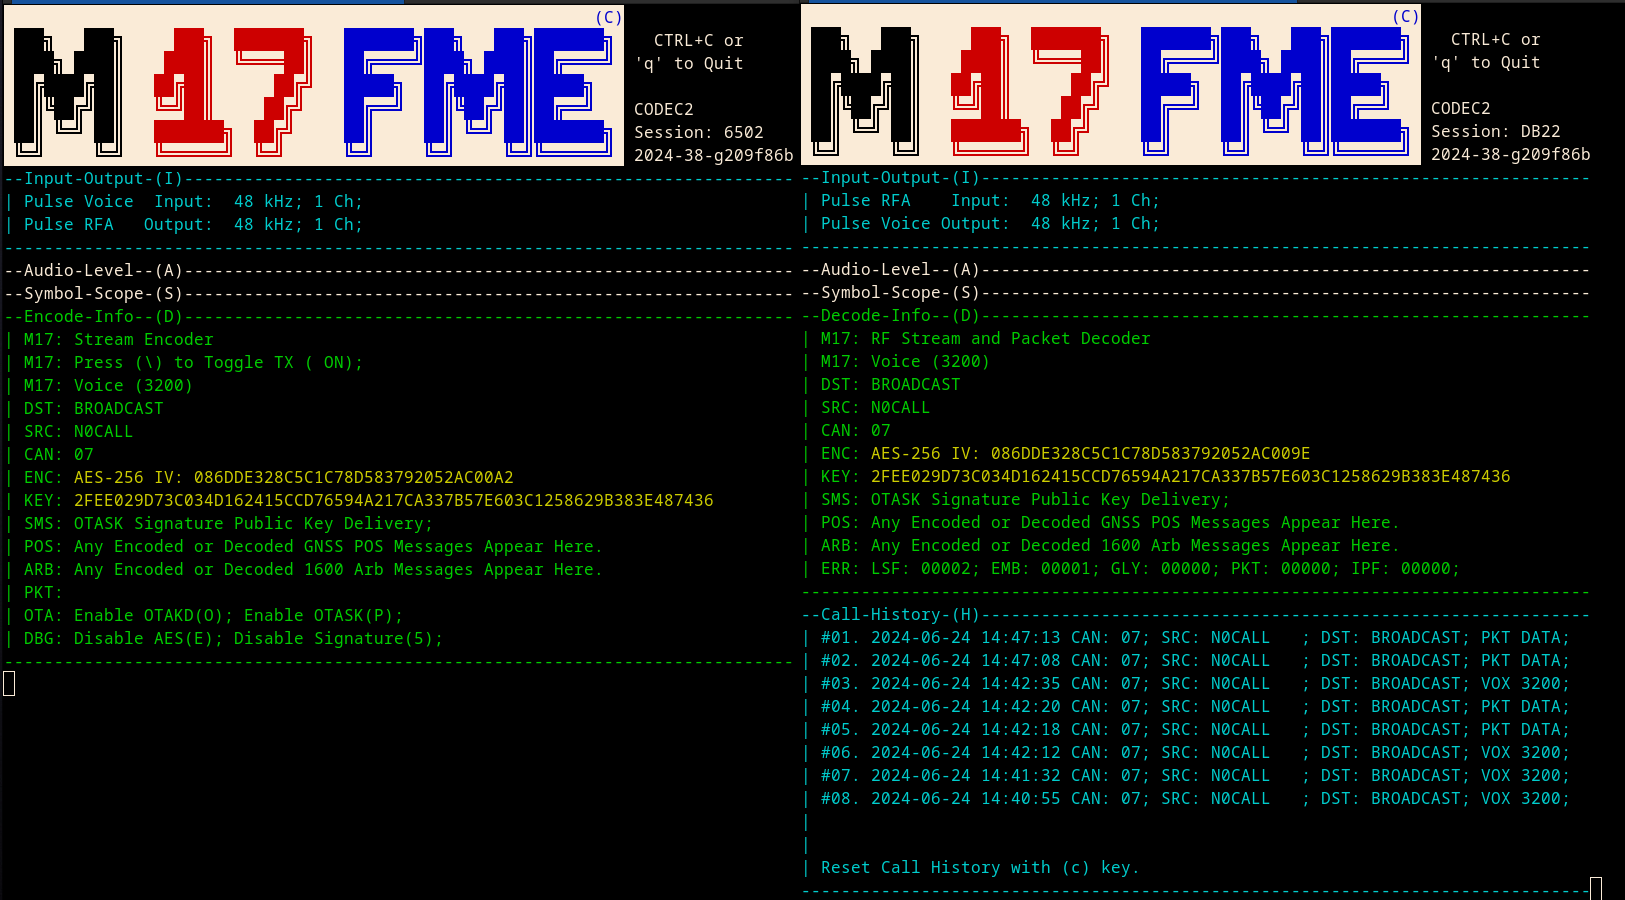
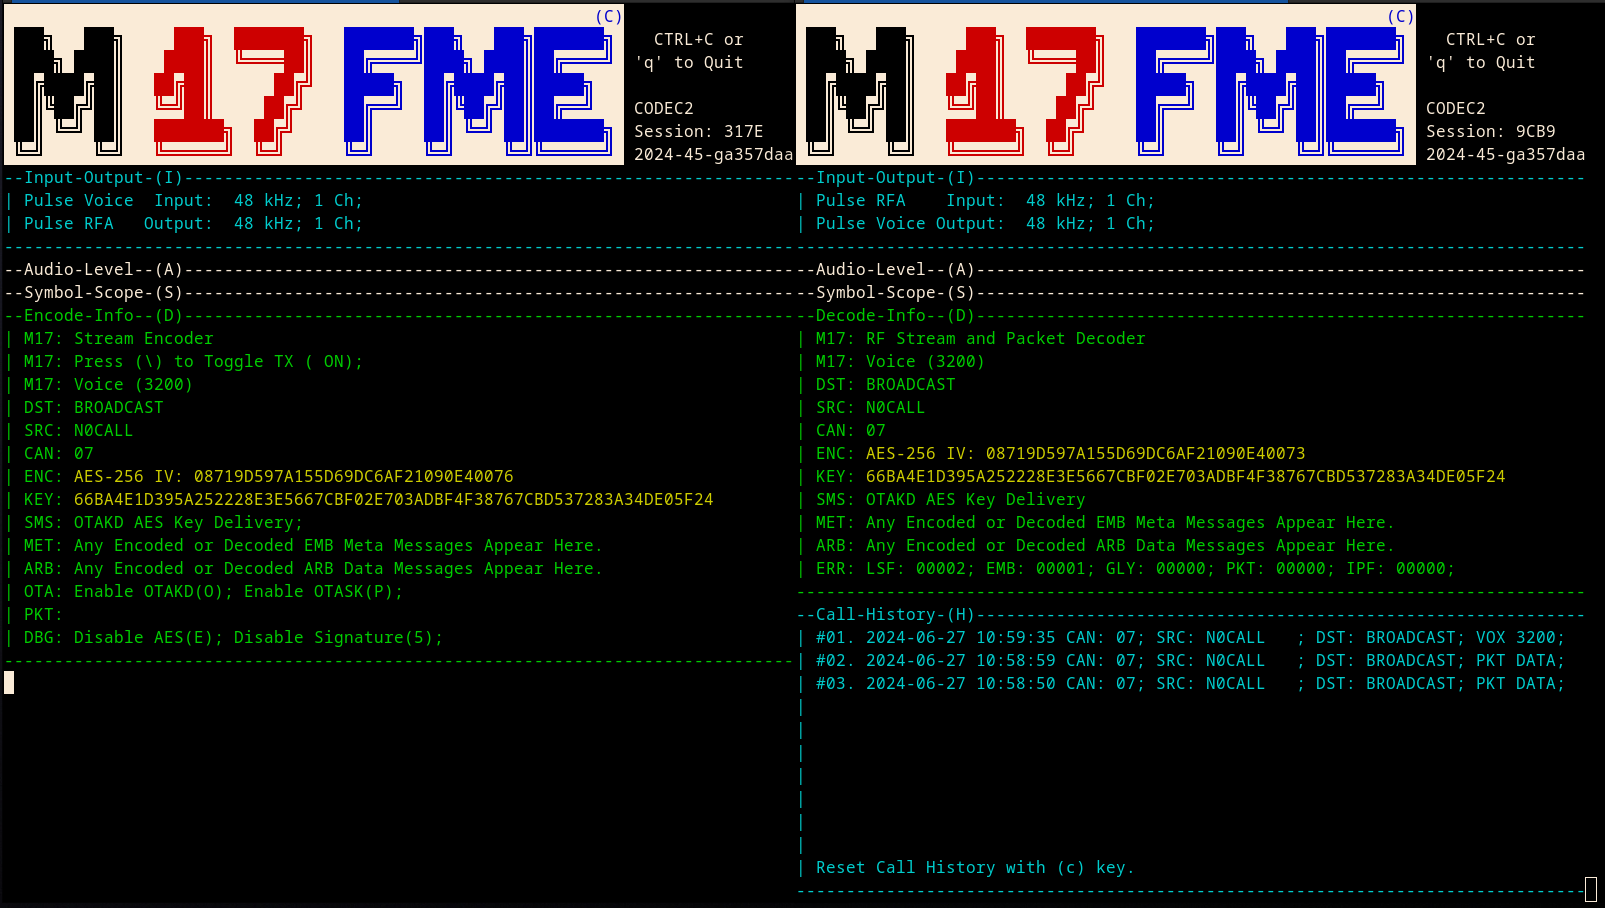
Update Screenshots;
Bugfix on Short AES PKT (<128) Decryption over IPF;

Misc Tweaks;

diff --git a/src/decoder/m17_pkt_decoder.c b/src/decoder/m17_pkt_decoder.c
@@ -285,6 +285,7 @@ void decode_pkt_contents(Super * super, uint8_t * input, int len)
 
     if (protocol == 0x80) //Meta
     { 
+      sprintf (super->m17d.dat, "%s", "");
       //show Control Byte Len and Segment Values on Meta Text
       fprintf (stderr, "%d/%d; ", (input[1] >> 4), input[1] & 0xF);
       for (i = 2; i < len; i++)
@@ -292,12 +293,11 @@ void decode_pkt_contents(Super * super, uint8_t * input, int len)
     }
     else
     {
+      sprintf (super->m17d.arb, "%s", "");
       for (i = 1; i < len; i++)
         fprintf (stderr, "%c", input[i]);
     }
 
-    //make a better string out of it instead
-    sprintf (super->m17d.arb, "%s", "");
     if (protocol == 0x80) //Meta Text with the control byte
       memcpy (super->m17d.dat, input+2, len); //skip over control byte
     else memcpy (super->m17d.arb, input+1, len);

diff --git a/src/ncurses/ncurses_input_handler.c b/src/ncurses/ncurses_input_handler.c
@@ -20,8 +20,8 @@ void entry_string_ncurses_terminal (char * label, char * output_string)
   WINDOW * entry;
   int rows   = 6;
   int colums = 70;
-  int xpos = 10;
-  int ypos = 10;
+  int xpos = 5;
+  int ypos = 5;
   
   entry = newwin(rows, colums, ypos, xpos);
   box (entry, 0, 0);
@@ -261,6 +261,7 @@ void input_ncurses_terminal (Super * super, int c)
           super->m17e.enc_et = 0;
           super->m17e.met_st = 0;
           memset  (super->m17e.meta_data, 0, sizeof(super->m17e.meta_data));
+          sprintf (super->m17d.dat, "%s", "");
         }
         else if (super->m17e.meta_data[0]) //meta has actual text in it
         {

diff --git a/src/decoder/m17_ipf_decoder.c b/src/decoder/m17_ipf_decoder.c
@@ -327,6 +327,10 @@ void decode_ipf (Super * super)
         //if there are leftovers (kmod), then run a keystream and partial application to left over bits
         uint8_t aes_ks_bits[128]; memset(aes_ks_bits, 0, 128*sizeof(uint8_t));
         int kmodstart = klen*128;
+
+        //set to 8 IF kmodstart == 0 so we don't try to decrypt the protocol byte on short single block packets
+        if (kmodstart == 0) kmodstart = 8;
+
         if (kmod != 0)
         {
           aes_ctr_str_payload_crypt (super->m17d.meta, super->enc.aes_key, aes_ks_bits, super->m17d.enc_st+1);
